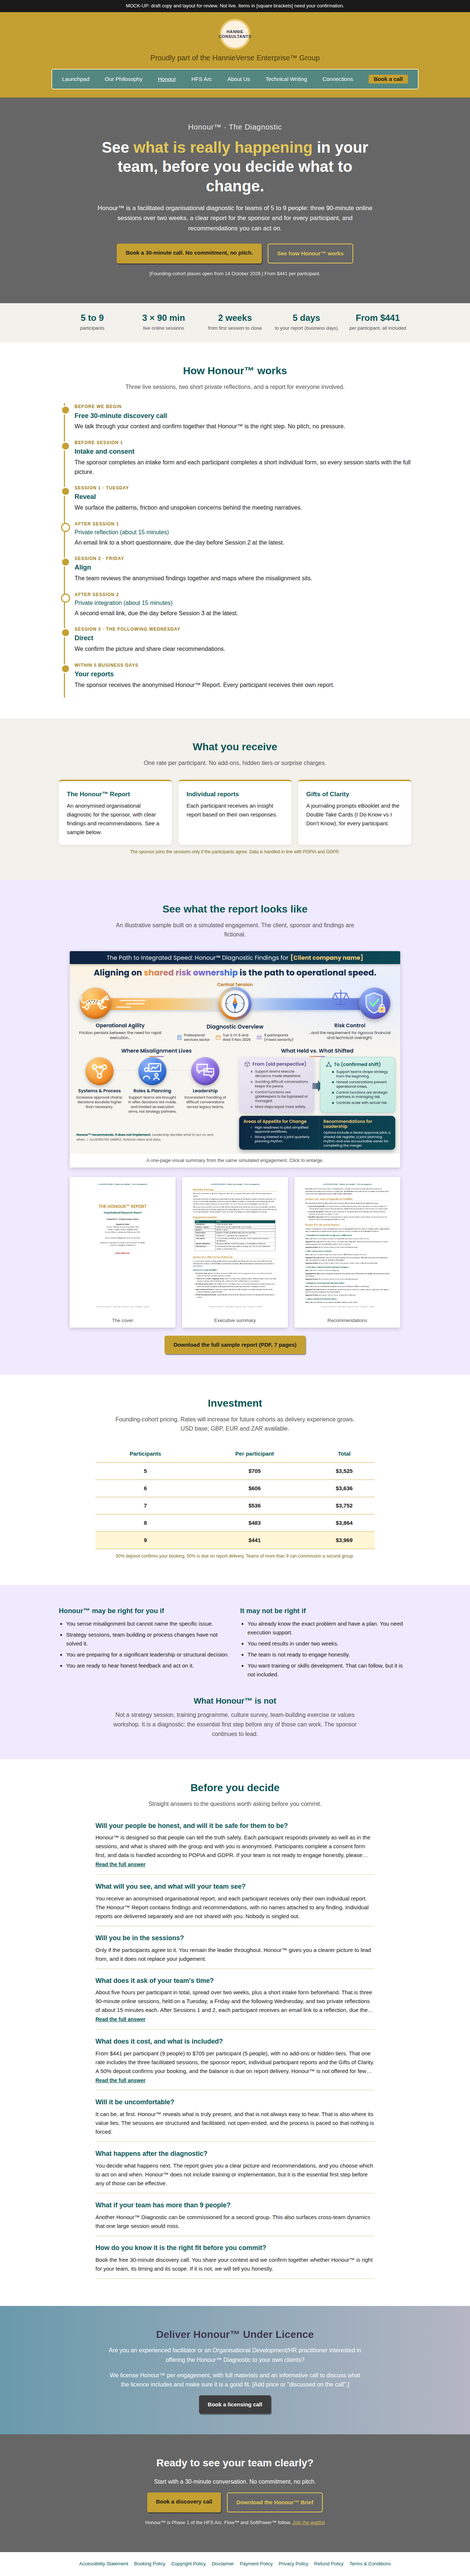
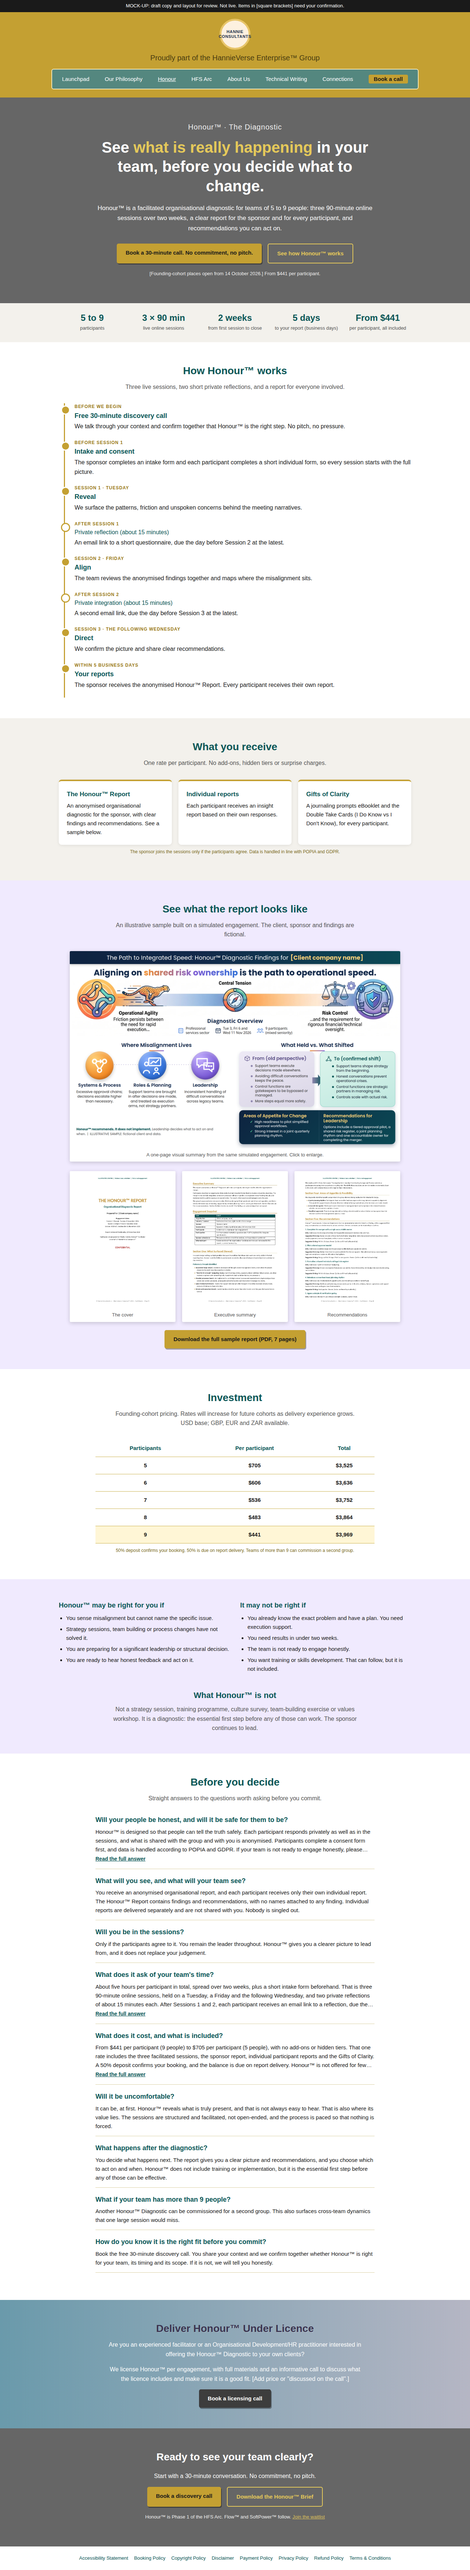
Infographic v3: top band uses the original artwork; overview text corrected
Claude-Session: https://claude.ai/code/session_01VGNF22YqMhet38GotcC9rv

diff --git a/qa/infographic/report-infographic-v3.html b/qa/infographic/report-infographic-v3.html
@@ -1,0 +1,76 @@
+<!doctype html>
+<html lang="en"><head><meta charset="utf-8"><title>Honour Report at a glance (illustrative, vibrant)</title>
+<style>
+@font-face{font-family:Poppins;font-weight:400;src:url(fonts/Poppins-400.ttf)}
+@font-face{font-family:Poppins;font-weight:500;src:url(fonts/Poppins-500.ttf)}
+@font-face{font-family:Poppins;font-weight:600;src:url(fonts/Poppins-600.ttf)}
+@font-face{font-family:Poppins;font-weight:700;src:url(fonts/Poppins-700.ttf)}
+:root{--navy:#12294A;--teal:#095656;--gold:#C4A032;--orange:#F28C28;--blue:#2F6FD6;--purple:#7B5CD6;--mint:#5BD6A0}
+*{box-sizing:border-box;margin:0}
+body{width:2000px;height:1190px;font-family:Poppins,sans-serif;color:#1A1A1A;position:relative;overflow:hidden;
+ background:#fff}
+.top{height:78px;background:linear-gradient(90deg,#0E2340,#12294A 40%,#0B4A55);color:#fff;display:flex;align-items:center;justify-content:center;font-size:35px;letter-spacing:.2px;box-shadow:0 4px 14px rgba(0,0,0,.25)}
+.top b{font-weight:700;color:#FFD27A;margin-left:12px}
+h1{text-align:center;font-size:50px;font-weight:700;margin-top:22px;line-height:1.2;color:var(--navy)}
+h1 span{background:linear-gradient(90deg,var(--orange),var(--purple) 55%,var(--blue));-webkit-background-clip:text;color:transparent}
+.tension{position:absolute;top:186px;left:0;width:2000px;height:400px}
+.bar{position:absolute;left:170px;right:170px;top:96px;height:74px;border-radius:37px;background:linear-gradient(90deg,#F6A33C 0%,#F7C873 25%,#DDE6F7 50%,#7FA6EC 75%,#5B6FD6 100%);box-shadow:inset 0 3px 8px rgba(255,255,255,.6),0 6px 16px rgba(60,80,160,.25)}
+.streak{position:absolute;height:8px;border-radius:4px;background:rgba(255,255,255,.75)}
+.orb{position:absolute;width:190px;height:190px;border-radius:50%;display:flex;align-items:center;justify-content:center;box-shadow:0 12px 26px rgba(0,0,0,.28),inset 0 -10px 24px rgba(0,0,0,.18),inset 0 10px 22px rgba(255,255,255,.35)}
+.cap{position:absolute;text-align:center;width:540px}
+.cap h3{font-size:31px;font-weight:600;color:var(--navy)}
+.cap p{font-size:23px;line-height:1.3;color:#333;margin-top:6px}
+.sec{position:absolute;font-size:32px;font-weight:600;color:var(--navy);text-align:center}
+.sec:after{content:"";display:block;width:90px;height:5px;border-radius:3px;margin:8px auto 0;background:linear-gradient(90deg,var(--orange),var(--purple))}
+.node{position:absolute;width:300px;text-align:center}
+.node h4{font-size:27px;font-weight:600;color:var(--navy);margin-top:14px}
+.node p{font-size:21px;line-height:1.35;color:#333;margin-top:6px}
+.ico{width:170px;height:170px;border-radius:50%;margin:0 auto;display:flex;align-items:center;justify-content:center;box-shadow:0 10px 20px rgba(0,0,0,.22),inset 0 -8px 18px rgba(0,0,0,.16),inset 0 8px 16px rgba(255,255,255,.35)}
+.card{position:absolute;border-radius:24px;padding:22px 30px;box-shadow:0 8px 20px rgba(20,40,80,.15)}
+.card h5{font-size:28px;font-weight:600;display:flex;align-items:center;gap:12px;margin-bottom:10px}
+.card ul{list-style:none}
+.card li{font-size:20.5px;line-height:1.3;margin-bottom:9px;padding-left:26px;position:relative}
+.card li:before{content:"";position:absolute;left:0;top:8px;width:12px;height:12px;border-radius:50%}
+.from{background:linear-gradient(160deg,#EEEAF6,#DAD6E6);color:#333}.from li:before{background:#8E86AE}.from h5{color:#5A4E86}
+.to{background:linear-gradient(160deg,#DDF5EC,#BFE8E0);color:#123;border:2px solid #8FD4C6}.to li:before{background:var(--teal)}.to h5{color:var(--teal)}
+.bottom{position:absolute;left:1025px;top:960px;width:945px;height:205px;border-radius:24px;background:linear-gradient(135deg,#0E2340,#0B4A55);color:#fff;display:grid;grid-template-columns:1.05fr 1fr;box-shadow:0 10px 24px rgba(10,30,60,.35);overflow:hidden}
+.bottom>div{padding:20px 26px}
+.bottom h5{color:#FFD27A;font-size:26px;font-weight:600;margin-bottom:8px;line-height:1.15}
+.bottom li{list-style:none;font-size:20px;line-height:1.28;margin-bottom:6px;padding-left:28px;position:relative}
+.bottom li:before{content:"\2713";position:absolute;left:0;color:var(--mint);font-weight:700}
+.bottom p{font-size:20px;line-height:1.3}
+.foot{position:absolute;left:0;width:960px;top:1060px;padding:0 40px;font-size:19px;color:#555}
+.foot b{color:var(--teal)}
+</style></head><body>
+<div class="top">The Path to Integrated Speed: Honour&trade; Diagnostic Findings for <b>[Client company name]</b></div>
+<h1>Aligning on <span>shared risk ownership</span> is the path to operational speed.</h1>
+
+<img src="top-band-original-art.png" style="position:absolute;left:0;top:160px;width:2000px;height:350px">
+<div style="position:absolute;left:600px;width:800px;top:398px;text-align:center;font-family:'Open Sans',sans-serif">
+  <div style="font-size:33px;font-weight:700;color:#12294A">Diagnostic Overview</div>
+  <div style="display:flex;justify-content:center;gap:34px;margin-top:10px;font-size:21px;color:#222;line-height:1.25">
+    <div style="display:flex;gap:10px;align-items:center;text-align:left"><svg width="38" height="38" viewBox="0 0 34 34" fill="none" stroke="#2F6FD6" stroke-width="2.2"><rect x="6" y="6" width="22" height="24" rx="2"/><path d="M11 12h4M19 12h4M11 17h4M19 17h4M11 22h4M19 22h4"/></svg>Professional<br>services sector</div>
+    <div style="display:flex;gap:10px;align-items:center;text-align:left"><svg width="38" height="38" viewBox="0 0 34 34" fill="none" stroke="#12294A" stroke-width="2.2"><rect x="4" y="7" width="26" height="23" rx="3"/><path d="M4 14h26M11 4v6M23 4v6M10 19h4M16 19h4M22 19h4M10 24h4M16 24h4"/></svg>Tue 3, Fri 6 and<br>Wed 11 Nov 2026</div>
+    <div style="display:flex;gap:10px;align-items:center;text-align:left"><svg width="42" height="38" viewBox="0 0 38 34" fill="none" stroke="#2F6FD6" stroke-width="2.2"><circle cx="11" cy="12" r="5"/><circle cx="27" cy="12" r="5"/><path d="M2 29c0-7 18-7 18 0M18 29c0-7 18-7 18 0"/></svg>9 participants<br>(mixed seniority)</div>
+  </div>
+</div>
+<div class="sec" style="left:50px;width:950px;top:543px">Where Misalignment Lives</div>
+<svg style="position:absolute;left:0;top:605px" width="1000" height="200" viewBox="0 0 1000 200" fill="none" stroke="#B9B2D8" stroke-width="3"><path d="M170 80 H830" stroke-dasharray="4 10"/></svg>
+<div class="node" style="left:30px;top:605px"><div class="ico" style="background:radial-gradient(circle at 32% 28%,#FFD27A,#F28C28 65%,#C95F0C)"><svg width="110" height="110" viewBox="0 0 110 110" fill="none" stroke="#fff" stroke-width="8" stroke-linecap="round" stroke-linejoin="round"><circle cx="25" cy="30" r="12"/><circle cx="85" cy="30" r="12"/><circle cx="55" cy="84" r="12"/><path d="M37 30 H66"/><path d="M60 22 L68 30 L60 38"/><path d="M80 42 L62 72"/><path d="M48 72 L30 42"/></svg></div><h4>Systems &amp; Process</h4><p>Excessive approval chains; decisions escalate higher than necessary.</p></div>
+<div class="node" style="left:350px;top:605px"><div class="ico" style="background:radial-gradient(circle at 32% 28%,#8FB4FF,#2F6FD6 65%,#1E4AA8)"><svg width="120" height="110" viewBox="0 0 120 110" fill="none" stroke="#fff" stroke-width="7" stroke-linecap="round" stroke-linejoin="round"><rect x="38" y="10" width="72" height="46" rx="5"/><path d="M50 44 L66 30 L80 38 L98 20"/><circle cx="24" cy="46" r="11"/><path d="M6 100 C6 80 42 80 42 100"/><circle cx="84" cy="78" r="9"/><path d="M68 108 C68 92 100 92 100 108"/></svg></div><h4>Roles &amp; Planning</h4><p>Support teams are brought in after decisions are made, and treated as execution arms, not strategy partners.</p></div>
+<div class="node" style="left:670px;top:605px"><div class="ico" style="background:radial-gradient(circle at 32% 28%,#C4B0FF,#7B5CD6 65%,#4B2FA0)"><svg width="120" height="110" viewBox="0 0 120 110" fill="none" stroke="#fff" stroke-width="7" stroke-linecap="round" stroke-linejoin="round"><path d="M10 14 H72 V52 H36 L20 66 V52 H10 Z"/><path d="M52 40 H110 V78 H100 V92 L84 78 H52 Z"/><circle cx="68" cy="59" r="2.5" fill="#fff"/><circle cx="82" cy="59" r="2.5" fill="#fff"/><circle cx="96" cy="59" r="2.5" fill="#fff"/></svg></div><h4>Leadership</h4><p>Inconsistent handling of difficult conversations across legacy teams.</p></div>
+
+<div class="sec" style="left:1025px;width:945px;top:543px">What Held vs. What Shifted</div>
+<div class="card from" style="left:1025px;top:605px;width:455px;height:335px"><h5><svg width="38" height="38" viewBox="0 0 38 38" fill="none" stroke="#5A4E86" stroke-width="2.5" stroke-linejoin="round"><path d="M19 4 L33 11 V27 L19 34 L5 27 V11 Z M5 11 L19 18 L33 11 M19 18 V34"/></svg>From (old perspective)</h5><ul>
+<li>Support teams execute decisions made elsewhere.</li><li>Avoiding difficult conversations keeps the peace.</li><li>Control functions are gatekeepers to be bypassed or managed.</li><li>More steps equal more safety.</li></ul></div>
+<svg style="position:absolute;left:1468px;top:740px" width="64" height="80" viewBox="0 0 64 80"><defs><linearGradient id="ag" x1="0" x2="1"><stop offset="0" stop-color="#8E86AE"/><stop offset="1" stop-color="#095656"/></linearGradient></defs><path d="M0 22 H34 V4 L62 40 L34 76 V58 H0 Z" fill="url(#ag)"/></svg>
+<div class="card to" style="left:1515px;top:605px;width:455px;height:335px"><h5><svg width="40" height="38" viewBox="0 0 40 38" fill="none" stroke="#095656" stroke-width="2.5" stroke-linecap="round"><circle cx="20" cy="8" r="4"/><circle cx="8" cy="29" r="4"/><circle cx="32" cy="29" r="4"/><path d="M18 12 L10 25 M22 12 L30 25 M12 29 H28"/></svg>To (confirmed shift)</h5><ul>
+<li>Support teams shape strategy from the beginning.</li><li>Honest conversations prevent operational crises.</li><li>Control functions are strategic partners in managing risk.</li><li>Controls scale with actual risk.</li></ul></div>
+
+<div class="bottom">
+  <div style="border-right:1px solid rgba(255,255,255,.2);">
+    <div><h5>Areas of Appetite for Change</h5><ul><li>High readiness to pilot simplified approval workflows.</li><li>Strong interest in a joint quarterly planning rhythm.</li></ul></div></div>
+  <div><div><h5>Recommendations for Leadership</h5><p>Options include a tiered approval pilot, a shared risk register, a joint planning rhythm and one accountable owner for completing the merger.</p></div></div>
+</div>
+<div class="foot"><b>Honour&trade; recommends. It does not implement.</b> Leadership decides what to act on and when. &nbsp;|&nbsp; ILLUSTRATIVE SAMPLE: fictional client and data.</div>
+</body></html>

diff --git a/qa/honour-page-mockup.html b/qa/honour-page-mockup.html
@@ -159,7 +159,7 @@
   <div class="wrap">
     <h2>See what the report looks like</h2>
     <p class="sub">An illustrative sample built on a simulated engagement. The client, sponsor and findings are fictional.</p>
-    <figure class="infog"><a href="infographic/report-infographic-vibrant-2000.png"><img src="infographic/report-infographic-vibrant-1000.png" alt="One-page infographic summarising a sample Honour diagnostic: the tension between operational speed and risk control, where misalignment sits (systems, roles, leadership), what shifted, areas of appetite for change, and recommendations for leadership."></a><figcaption>A one-page visual summary from the same simulated engagement. Click to enlarge.</figcaption></figure>
+    <figure class="infog"><a href="infographic/report-infographic-v3-2000.png"><img src="infographic/report-infographic-v3-1000.png" alt="One-page infographic summarising a sample Honour diagnostic: the tension between operational speed and risk control, where misalignment sits (systems, roles, leadership), what shifted, areas of appetite for change, and recommendations for leadership."></a><figcaption>A one-page visual summary from the same simulated engagement. Click to enlarge.</figcaption></figure>
     <div class="sample">
       <figure><a href="sample-report/sample-page-1.jpg"><img src="sample-report/sample-page-1.jpg" alt="Cover page of a sample Honour Report"></a><figcaption>The cover</figcaption></figure>
       <figure><a href="sample-report/sample-page-4.jpg"><img src="sample-report/sample-page-4.jpg" alt="Executive summary and engagement snapshot of a sample Honour Report"></a><figcaption>Executive summary</figcaption></figure>

diff --git a/qa/infographic/render-v3.js b/qa/infographic/render-v3.js
@@ -1,0 +1,5 @@
+const { chromium } = require(require('child_process').execSync('npm root -g').toString().trim()+'/playwright');
+(async()=>{const b=await chromium.launch({executablePath:'/opt/pw-browsers/chromium'});
+const p=await b.newPage({viewport:{width:2000,height:1190}});
+await p.goto('file://'+process.cwd()+'/report-infographic-v3.html');await p.evaluate(()=>document.fonts.ready);await p.waitForTimeout(400);
+await p.screenshot({path:'report-infographic-v3-2000.png'});await b.close();})();
